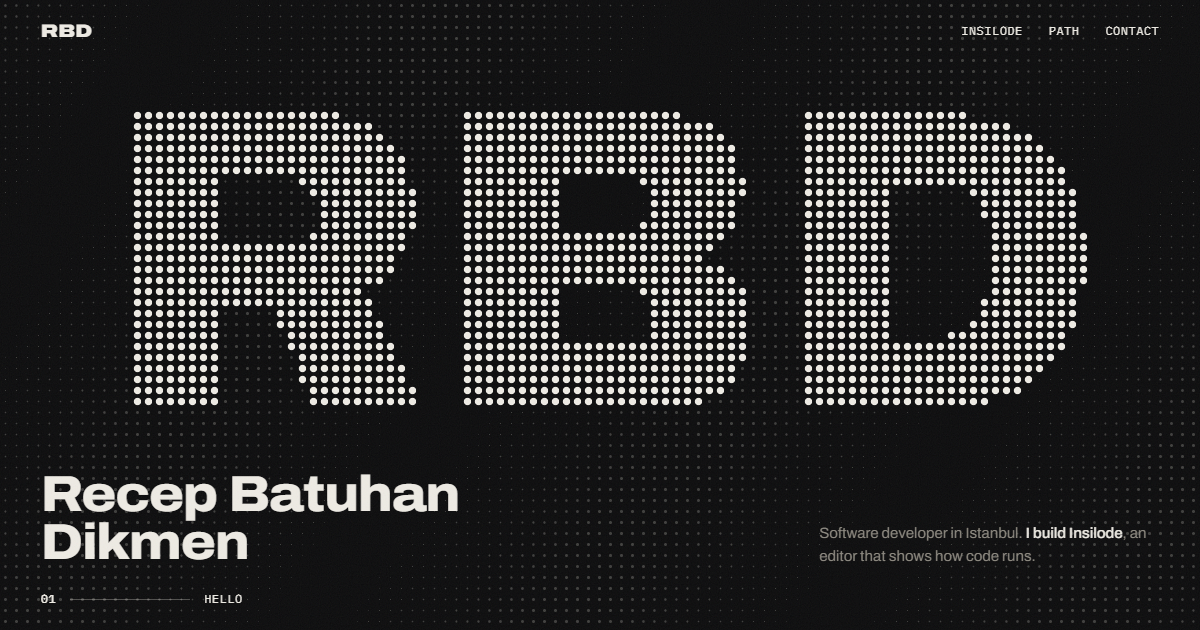
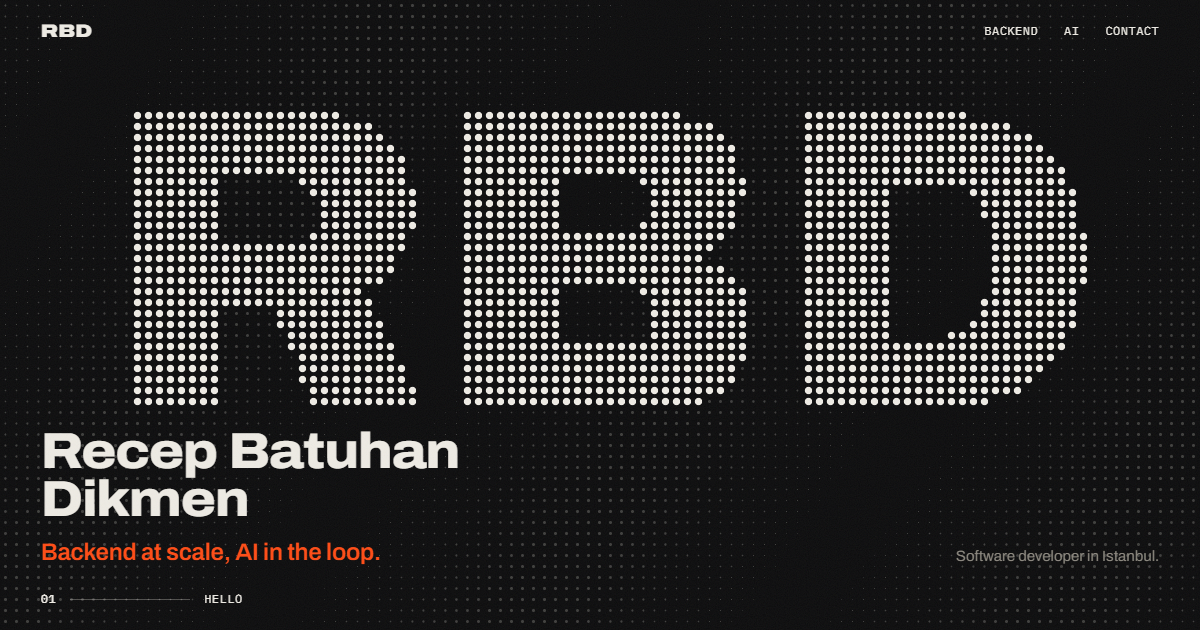
Say backend at scale, AI in the loop, and drop the claude-starter scene
The site now leads with one line, "Backend at scale, AI in the loop.",
then the day-job scale (TAG, Geleceği Yazanlar, ATP) and how I build with
AI: Claude Code, MCP servers, agent skills. Insilode becomes a note inside
the AI scene instead of its own showcase; the Ask/Plan/Build/Review scene
is gone; contact reads "Say hello". The share image shows the new line.

Changed region(s): [[0.0308, 0.6635, 0.4008, 0.9048], [0.6783, 0.8143, 0.9558, 0.9048], [0.8017, 0.0302, 0.8942, 0.0603]]

diff --git a/app/page.tsx b/app/page.tsx
@@ -1,10 +1,10 @@
 import Motion from "@/components/motion";
-import { belief, insilode, languages, numbers, path, site, starter, tools } from "@/content/site";
+import { ai, backend, belief, languages, path, site, tools } from "@/content/site";
 import { NODE_H, countText, wire } from "@/lib/motion";
 
 export default function Page() {
   const L = site.links;
-  const nodes = Object.fromEntries(insilode.flow.nodes.map(n => [n.id, n]));
+  const nodes = Object.fromEntries(ai.flow.nodes.map(n => [n.id, n]));
   return (
     <>
       <div className="grain" aria-hidden="true" />
@@ -17,8 +17,8 @@ export default function Page() {
       <header className="top">
         <a className="mark" href="#top" aria-label="RBD, back to the top">RBD</a>
         <nav className="mono" aria-label="Sections">
-          <a href="#insilode">Insilode</a>
-          <a href="#path">Path</a>
+          <a href="#backend">Backend</a>
+          <a href="#ai">AI</a>
           <a href="#contact">Contact</a>
         </nav>
       </header>
@@ -29,8 +29,11 @@ export default function Page() {
           <div className="stick">
             <canvas id="dots" aria-hidden="true" />
             <div className="cap">
-              <h1>{site.name}</h1>
-              <p>Software developer in {site.city}. <b>I build Insilode</b>, an editor that shows how code runs.</p>
+              <div>
+                <h1>{site.name}</h1>
+                <p className="tagline">{site.tagline}</p>
+              </div>
+              <p>Software developer in {site.city}.</p>
             </div>
           </div>
         </section>
@@ -44,43 +47,12 @@ export default function Page() {
           </div>
         </section>
 
-        <section className="insilode" id="insilode" data-name="Insilode">
-          <div className="stick">
-            <div className="left">
-              <p className="kicker mono">What I’m building · open source</p>
-              <h2>Insilode</h2>
-              <p className="tag">{insilode.tagline} <em>{insilode.tagHot}</em></p>
-              <ol className="feats">
-                {insilode.features.map((f, i) => <li key={i}><span className="n mono">{String(i + 1).padStart(2, "0")}</span><span>{f}</span></li>)}
-              </ol>
-              <a className="cta" href={insilode.links.try} target="_blank" rel="noopener">Try it in your browser <span aria-hidden="true">→</span></a>
-              <a className="cta ghost" href={insilode.links.github} target="_blank" rel="noopener">GitHub</a>
-            </div>
-            <div className="flow" aria-hidden="true">
-              <svg viewBox="0 0 760 560" preserveAspectRatio="xMidYMid meet">
-                {insilode.flow.edges.map(([a, b, guess]) => (
-                  <path key={a + b} className={`edge${guess ? " guess" : ""}`} d={wire(nodes[a], nodes[b])} />
-                ))}
-                {insilode.flow.nodes.map(n => (
-                  <g key={n.id} className="node" data-id={n.id} transform={`translate(${n.x} ${n.y})`}>
-                    <rect width={n.w} height={NODE_H} rx={10} />
-                    <text x={16} y={28} className="t">{n.t}</text>
-                    <text x={16} y={47}>{n.s}</text>
-                  </g>
-                ))}
-                <text x={470} y={340} className="tagl">↳ ACROSS A QUEUE</text>
-                <circle r={14} className="halo" />
-                <circle r={5} className="pulse" />
-              </svg>
-            </div>
-          </div>
-        </section>
-
-        <section className="numbers" data-name="Numbers" data-tone="light">
-          <p className="scene-label mono">04 · Day job, in numbers</p>
-          <h3>The systems I work on are used by a lot of people.</h3>
-          <div className="grid4">
-            {numbers.map(n => {
+        <section className="numbers" id="backend" data-name="Backend" data-tone="light">
+          <p className="scene-label mono">03 · Backend</p>
+          <h3>{backend.title}</h3>
+          <p className="intro-line">{backend.intro}</p>
+          <div className="grid4 three">
+            {backend.numbers.map(n => {
               const end = countText(n.to, n);
               return (
                 <div key={n.text}>
@@ -92,17 +64,41 @@ export default function Page() {
               );
             })}
           </div>
-          <p className="day mono">Software developer at Turkcell since 2025</p>
         </section>
 
-        <section className="starter" data-name="Method" data-tone="light">
-          <p className="scene-label mono">05 · How I work with AI</p>
-          <div className="rules">
-            {starter.rules.map(r => <p key={r} className="rule">{r}<span>.</span></p>)}
-          </div>
-          <div className="foot">
-            <p>{starter.text}</p>
-            <a className="cta dark" href={starter.href} target="_blank" rel="noopener">claude-starter on GitHub <span aria-hidden="true">→</span></a>
+        <section className="insilode" id="ai" data-name="AI">
+          <div className="stick">
+            <div className="left">
+              <p className="kicker mono">04 · How I build</p>
+              <h2>{ai.title}</h2>
+              <ol className="feats">
+                {ai.points.map((f, i) => <li key={i}><span className="n mono">{String(i + 1).padStart(2, "0")}</span><span>{f}</span></li>)}
+              </ol>
+              <div className="also">
+                <p>{ai.insilode.lead} <b>{ai.insilode.name}</b>. {ai.insilode.text}</p>
+                <a className="cta" href={ai.insilode.try} target="_blank" rel="noopener">Try Insilode <span aria-hidden="true">→</span></a>
+                <a className="cta ghost" href={ai.insilode.github} target="_blank" rel="noopener">GitHub</a>
+                <a className="cta ghost" href={ai.starter} target="_blank" rel="noopener">claude-starter</a>
+              </div>
+            </div>
+            <div className="flow" aria-hidden="true">
+              <svg viewBox="0 0 760 560" preserveAspectRatio="xMidYMid meet">
+                {ai.flow.edges.map(([a, b, guess]) => (
+                  <path key={a + b} className={`edge${guess ? " guess" : ""}`} d={wire(nodes[a], nodes[b])} />
+                ))}
+                {ai.flow.nodes.map(n => (
+                  <g key={n.id} className="node" data-id={n.id} transform={`translate(${n.x} ${n.y})`}>
+                    <rect width={n.w} height={NODE_H} rx={10} />
+                    <text x={16} y={28} className="t">{n.t}</text>
+                    <text x={16} y={47}>{n.s}</text>
+                  </g>
+                ))}
+                <text x={470} y={340} className="tagl">↳ ACROSS A QUEUE</text>
+                <text x={0} y={548} className="cap-l">A request through two services, as Insilode draws it</text>
+                <circle r={14} className="halo" />
+                <circle r={5} className="pulse" />
+              </svg>
+            </div>
           </div>
         </section>
 
@@ -119,7 +115,7 @@ export default function Page() {
         </section>
 
         <section className="tools" data-name="Tools">
-          <p className="scene-label mono">07 · What I build with</p>
+          <p className="scene-label mono">06 · What I build with</p>
           {tools.map((row, i) => (
             <div key={i} className={`row${row.outline ? " out" : ""}`} data-speed={row.speed}>
               {[...row.items, ...row.items].map((t, j) => <span key={j} className={row.hot.includes(t) ? "hot" : undefined}>{t}</span>)}
@@ -132,9 +128,9 @@ export default function Page() {
         </section>
 
         <section className="contact" id="contact" data-name="Contact" data-tone="light">
-          <p className="scene-label mono">08 · Contact</p>
+          <p className="scene-label mono">07 · Contact</p>
           <div>
-            <h2>Write<br />to me</h2>
+            <h2>Say<br />hello</h2>
             <a className="mail" href={`mailto:${L.email}`} aria-label={`Email ${L.email}`}>
               {[...L.email].map((c, i) => <span key={i} className="ch" aria-hidden="true">{c}</span>)}
             </a>

diff --git a/content/site.ts b/content/site.ts
@@ -4,8 +4,9 @@ export const site = {
   name: "Recep Batuhan Dikmen",
   mark: "RBD",
   city: "Istanbul",
+  tagline: "Backend at scale, AI in the loop.",
   description:
-    "Recep Batuhan Dikmen, software developer in Istanbul. Builds Insilode, an editor that shows how code runs.",
+    "Recep Batuhan Dikmen, software developer in Istanbul. Backend at scale, AI in the loop: .NET and Java systems for tens of thousands of users, built with Claude Code, MCP servers and agents.",
   url: "https://recepbatuhandikmen.vercel.app",
   links: {
     email: "rbdikmen@gmail.com",
@@ -16,19 +17,35 @@ export const site = {
   },
 };
 
-// The one sentence the second scene lights up; the last words glow.
-export const belief = { lead: "Most tools show you what code says. I build the ones that show", hot: "what it does." };
+// The sentence the second scene lights up word by word; the last words glow.
+export const belief = { lead: "Backends that tens of thousands of people use every day, built with", hot: "AI in the loop." };
 
-export const insilode = {
-  tagline: "Every code editor shows your files.",
-  tagHot: "Insilode shows how your code runs.",
-  features: [
-    "Follow a request across services, queues and databases, card by card.",
-    "Review what an AI agent changed, drawn on the flow instead of buried in a diff.",
-    "Run Claude Code and Codex side by side, and see which one needs you.",
+export const backend = {
+  title: "Backend at scale",
+  intro: "My day job is Turkcell: systems a lot of people lean on, in .NET and Java.",
+  numbers: [
+    { to: 50000, format: "k", text: "employees learn on TAG. I’m moving it from Java and JSF to .NET 10." },
+    { to: 20, suffix: "%", text: "faster queries after I rebuilt the core APIs of Geleceği Yazanlar’s evaluation platform." },
+    { to: 5, suffix: "+", text: "retail chains, and hundreds of their stores, ran on my full-stack work at ATP." },
+  ] as { to: number; format?: "k"; suffix?: string; decimals?: number; text: string }[],
+};
+
+export const ai = {
+  title: "AI in the loop",
+  points: [
+    "I build with Claude Code every day, and I build what it needs.",
+    "MCP servers, so agents read our real Oracle schema instead of guessing it.",
+    "Agent skills and a Claude Code setup I open-sourced, claude-starter.",
   ],
-  links: { try: "https://insilode.dev/try/", github: "https://github.com/bothuany/insilode" },
-  // The drawing on the right: one request, through two services and a queue.
+  insilode: {
+    lead: "And the editor I wanted for this way of working:",
+    name: "Insilode",
+    text: "It shows how your code runs, and what an agent changed, drawn on the flow. Open source, built on VS Code.",
+    try: "https://insilode.dev/try/",
+    github: "https://github.com/bothuany/insilode",
+  },
+  starter: "https://github.com/bothuany/claude-starter",
+  // The drawing on the right: one request, through two services and a queue, as Insilode draws it.
   flow: {
     nodes: [
       { id: "req", x: 0, y: 250, w: 150, t: "POST /orders", s: "request" },
@@ -43,21 +60,8 @@ export const insilode = {
   },
 };
 
-export const numbers: { to: number; format?: "k"; suffix?: string; decimals?: number; text: string }[] = [
-  { to: 50000, format: "k", text: "employees learn on TAG, the platform I’m moving from Java to .NET 10." },
-  { to: 20, suffix: "%", text: "faster queries on the core APIs I built for Geleceği Yazanlar." },
-  { to: 5, suffix: "+", text: "retail chains and hundreds of their stores ran on my full-stack work at ATP." },
-  { to: 3.65, decimals: 2, text: "GPA in computer engineering, Eskişehir Technical University, honor student." },
-];
-
-export const starter = {
-  rules: ["Ask", "Plan", "Build clean", "Review fresh"],
-  text: "That’s claude-starter, the Claude Code setup I open-sourced: it asks before it assumes, writes the plan to a file, builds in a clean context and reviews with fresh eyes.",
-  href: "https://github.com/bothuany/claude-starter",
-};
-
 export const path = [
-  { year: "2020", title: "Eskişehir Technical University", text: "BSc computer engineering. Graduated in 2024 with a 3.65 GPA." },
+  { year: "2020", title: "Eskişehir Technical University", text: "BSc computer engineering. Graduated in 2024 with a 3.65 GPA, honor student." },
   { year: "2023", title: "Internships", text: "Softtech, OBSS and TUSAŞ during university, then Eczacıbaşı Bilişim, where I built a Teams bot in .NET and React." },
   { year: "2024", title: "ATP · Junior developer", text: "Full-stack work for five retail clients, and one dashboard to manage users across all their apps." },
   { year: "2025", title: "Turkcell · Associate developer", text: "Core APIs of the Geleceği Yazanlar evaluation platform. MCP servers for our own tooling." },
@@ -67,8 +71,8 @@ export const path = [
 
 // Rows of tools that drift past; `hot` ones are drawn in the signal colour.
 export const tools: { speed: number; outline?: boolean; items: string[]; hot: string[] }[] = [
-  { speed: -1, items: ["C#", ".NET", "Java", "Spring Boot", "TypeScript", "React", "Angular"], hot: [".NET"] },
-  { speed: 1, outline: true, items: ["Kafka", "PostgreSQL", "Oracle", "Redis", "Docker", "Kubernetes"], hot: [] },
-  { speed: -0.7, items: ["Claude Code", "MCP", "Agent skills", "Playwright"], hot: ["MCP"] },
+  { speed: -1, items: ["C#", ".NET", "Java", "Spring Boot", "Kafka", "RabbitMQ", "REST"], hot: [".NET", "Java"] },
+  { speed: 1, outline: true, items: ["PostgreSQL", "Oracle", "MsSQL", "Redis", "Docker", "Kubernetes"], hot: [] },
+  { speed: -0.7, items: ["Claude Code", "MCP", "Agent skills", "TypeScript", "React"], hot: ["Claude Code", "MCP"] },
 ];
 export const languages = ["Turkish · native", "English · full professional"];

diff --git a/app/globals.css b/app/globals.css
@@ -56,6 +56,11 @@ body[data-tone="light"] .top, body[data-tone="light"] .meter { color: var(--ink)
 section { position: relative; }
 .scene-label { position: absolute; top: 90px; left: var(--pad); color: var(--mute); z-index: 2; margin: 0; }
 
+.insilode .also { margin-top: 30px; padding-top: 22px; border-top: 1px solid var(--line); max-width: 460px; }
+.insilode .also p { margin: 0; color: var(--mute); font-size: 15px; }
+.insilode .also b { color: var(--paper); font-weight: 600; }
+.insilode .also .cta { margin-top: 18px; }
+.flow .cap-l { fill: var(--mute); font: 500 11px var(--mono); letter-spacing: 0.06em; text-transform: uppercase; }
 .cta { display: inline-flex; align-items: center; gap: 12px; margin-top: 30px; padding: 14px 20px; border: 1px solid var(--paper); border-radius: 999px; font-weight: 600; transition: background 0.3s, color 0.3s; }
 .cta:hover { background: var(--paper); color: var(--ink); }
 .cta.ghost { margin-left: 10px; border-color: #3a3a40; }
@@ -69,7 +74,7 @@ section { position: relative; }
 .hero .cap { position: absolute; left: var(--pad); right: var(--pad); bottom: clamp(56px, 10vh, 104px); display: flex; justify-content: space-between; align-items: flex-end; gap: 24px; z-index: 2; }
 .hero h1 { margin: 0; font: 800 clamp(30px, 4.2vw, 64px)/0.95 var(--sans); font-variation-settings: "wdth" 112; letter-spacing: -0.02em; max-width: 12ch; }
 .hero .cap p { margin: 0; max-width: 340px; color: var(--mute); font-size: 15px; }
-.hero .cap p b { color: var(--paper); font-weight: 500; }
+.hero .cap p.tagline { margin: 16px 0 0; max-width: none; color: var(--signal); font: 600 clamp(19px, 2vw, 32px)/1.15 var(--sans); letter-spacing: -0.01em; }
 html:not(.js) .hero { height: auto; }
 html:not(.js) .hero .stick { position: relative; height: 70vh; }
 
@@ -87,7 +92,7 @@ html.js .say .word.hot.lit { color: var(--signal); }
 .insilode .stick { position: sticky; top: 0; height: 100vh; overflow: hidden; display: grid; grid-template-columns: minmax(320px, 0.9fr) 1.3fr; gap: 3vw; align-items: center; padding: 90px var(--pad) 70px; }
 .insilode .left { position: relative; z-index: 2; }
 .insilode .kicker { color: var(--signal); margin: 0 0 18px; }
-.insilode h2 { margin: 0; font: 900 clamp(64px, 10.5vw, 190px)/0.82 var(--sans); font-variation-settings: "wdth" 62; letter-spacing: -0.035em; text-transform: uppercase; }
+.insilode h2 { margin: 0; font: 900 clamp(56px, 8.4vw, 160px)/0.84 var(--sans); font-variation-settings: "wdth" 62; letter-spacing: -0.035em; text-transform: uppercase; }
 .insilode .tag { margin: 22px 0 0; font: 500 clamp(18px, 1.7vw, 25px)/1.3 var(--sans); max-width: 26ch; }
 .insilode .tag em { color: var(--signal); font-style: normal; }
 .feats { list-style: none; margin: 34px 0 0; padding: 0; display: grid; gap: 14px; max-width: 440px; }
@@ -116,6 +121,8 @@ html.js .flow .tagl { opacity: 0; transition: opacity 0.5s; }
 .numbers { background: var(--paper); color: var(--ink); padding: 140px var(--pad) 120px; }
 html.js .numbers { clip-path: circle(0% at 50% 50%); }
 .numbers .scene-label { color: var(--dim); }
+.numbers .intro-line { margin: -44px 0 60px; max-width: 46ch; font-size: clamp(17px, 1.4vw, 21px); color: #36332e; }
+.grid4.three { grid-template-columns: repeat(3, 1fr); }
 .numbers h3 { margin: 0 0 70px; font: 800 clamp(30px, 4vw, 62px)/1 var(--sans); font-variation-settings: "wdth" 112; letter-spacing: -0.02em; max-width: 18ch; }
 .grid4 { display: grid; grid-template-columns: repeat(4, 1fr); border-top: 2px solid var(--ink); }
 .grid4 > div { padding: 26px 20px 10px 0; border-right: 1px solid rgba(0, 0, 0, 0.14); }
@@ -125,15 +132,6 @@ html.js .numbers { clip-path: circle(0% at 50% 50%); }
 .big sup { font-size: 0.4em; vertical-align: top; margin-left: 4px; color: var(--signal); }
 .grid4 p { margin: 16px 0 0; font-size: 15px; max-width: 26ch; color: #36332e; }
 .numbers .day { margin: 60px 0 0; color: var(--dim); }
-
-/* 05 claude-starter */
-.starter { background: var(--paper); color: var(--ink); padding: 120px var(--pad) 140px; overflow: hidden; }
-.starter .scene-label { color: var(--dim); }
-.rule { margin: 0; font: 900 clamp(46px, 8.4vw, 160px)/0.88 var(--sans); letter-spacing: -0.04em; text-transform: uppercase; font-variation-settings: "wdth" 125; white-space: nowrap; }
-.rule:nth-child(even) { text-align: right; }
-.rule span { color: var(--signal); }
-.starter .foot { display: flex; justify-content: space-between; align-items: flex-end; gap: 30px; margin-top: 60px; flex-wrap: wrap; }
-.starter .foot p { margin: 0; max-width: 46ch; font-size: 17px; }
 
 /* 06 Path */
 .timeline { height: 360vh; }
@@ -184,8 +182,7 @@ html.js .stop.on::before { background: var(--signal); border-color: var(--signal
   .track { position: relative; top: 0; flex-direction: column; gap: 46px; transform: none !important; }
   .track .line { display: none; }
   .stop { width: auto; padding: 24px var(--pad) 0 0; }
-  .rule { white-space: normal; }
-  .rule:nth-child(even) { text-align: left; }
+  .grid4.three { grid-template-columns: 1fr; }
   .meter .bar { width: 60px; }
   .top nav { gap: 16px; }
   .cta.ghost { margin-left: 6px; }

diff --git a/lib/motion.test.ts b/lib/motion.test.ts
@@ -1,13 +1,13 @@
 import { test } from "node:test";
 import assert from "node:assert/strict";
 import { countText, wire, stepIn } from "./motion.ts";
-import { numbers, insilode } from "../content/site.ts";
+import { backend, ai } from "../content/site.ts";
 
 test("counters land on the figures the CV states", () => {
-  assert.deepEqual(numbers.map(n => countText(n.to, n)), [
-    { main: "50K", sup: "+" }, { main: "20", sup: "%" }, { main: "5", sup: "+" }, { main: "3.65", sup: "" },
+  assert.deepEqual(backend.numbers.map(n => countText(n.to, n)), [
+    { main: "50K", sup: "+" }, { main: "20", sup: "%" }, { main: "5", sup: "+" },
   ]);
-  assert.deepEqual(countText(0, numbers[3]), { main: "0.00", sup: "" });
+  assert.deepEqual(countText(0, { to: 3.65, decimals: 2 }), { main: "0.00", sup: "" });
 });
 
 test("wires go sideways to the right, or down to a node below", () => {
@@ -16,8 +16,8 @@ test("wires go sideways to the right, or down to a node below", () => {
 });
 
 test("every edge in the flow joins two nodes that exist", () => {
-  const ids = new Set(insilode.flow.nodes.map(n => n.id));
-  for (const [a, b] of insilode.flow.edges) assert.ok(ids.has(a) && ids.has(b), `${a} → ${b}`);
+  const ids = new Set(ai.flow.nodes.map(n => n.id));
+  for (const [a, b] of ai.flow.edges) assert.ok(ids.has(a) && ids.has(b), `${a} → ${b}`);
 });
 
 test("stepIn clamps", () => {

diff --git a/components/motion.tsx b/components/motion.tsx
@@ -159,12 +159,6 @@ export default function Motion() {
         ScrollTrigger.create({ trigger: b, start: "top 85%", once: true, onEnter: () => gsap.to(o, { v: c.to, duration: 1.8, ease: "power3.out", onUpdate: () => paint(o.v) }) });
       }
 
-      // ---------- 05: four rules that stretch into place ----------
-      $$(".rule").forEach((r, i) => {
-        gsap.fromTo(r, { fontVariationSettings: '"wdth" 62', xPercent: i % 2 ? 12 : -12, opacity: 0.15 },
-          { fontVariationSettings: '"wdth" 125', xPercent: 0, opacity: 1, ease: "none", scrollTrigger: { trigger: r, start: "top 95%", end: "top 45%", scrub: true } });
-      });
-
       // ---------- 06: the path runs sideways on wide screens ----------
       const stops = $$(".stop");
       mm.add("(min-width: 861px)", () => {
